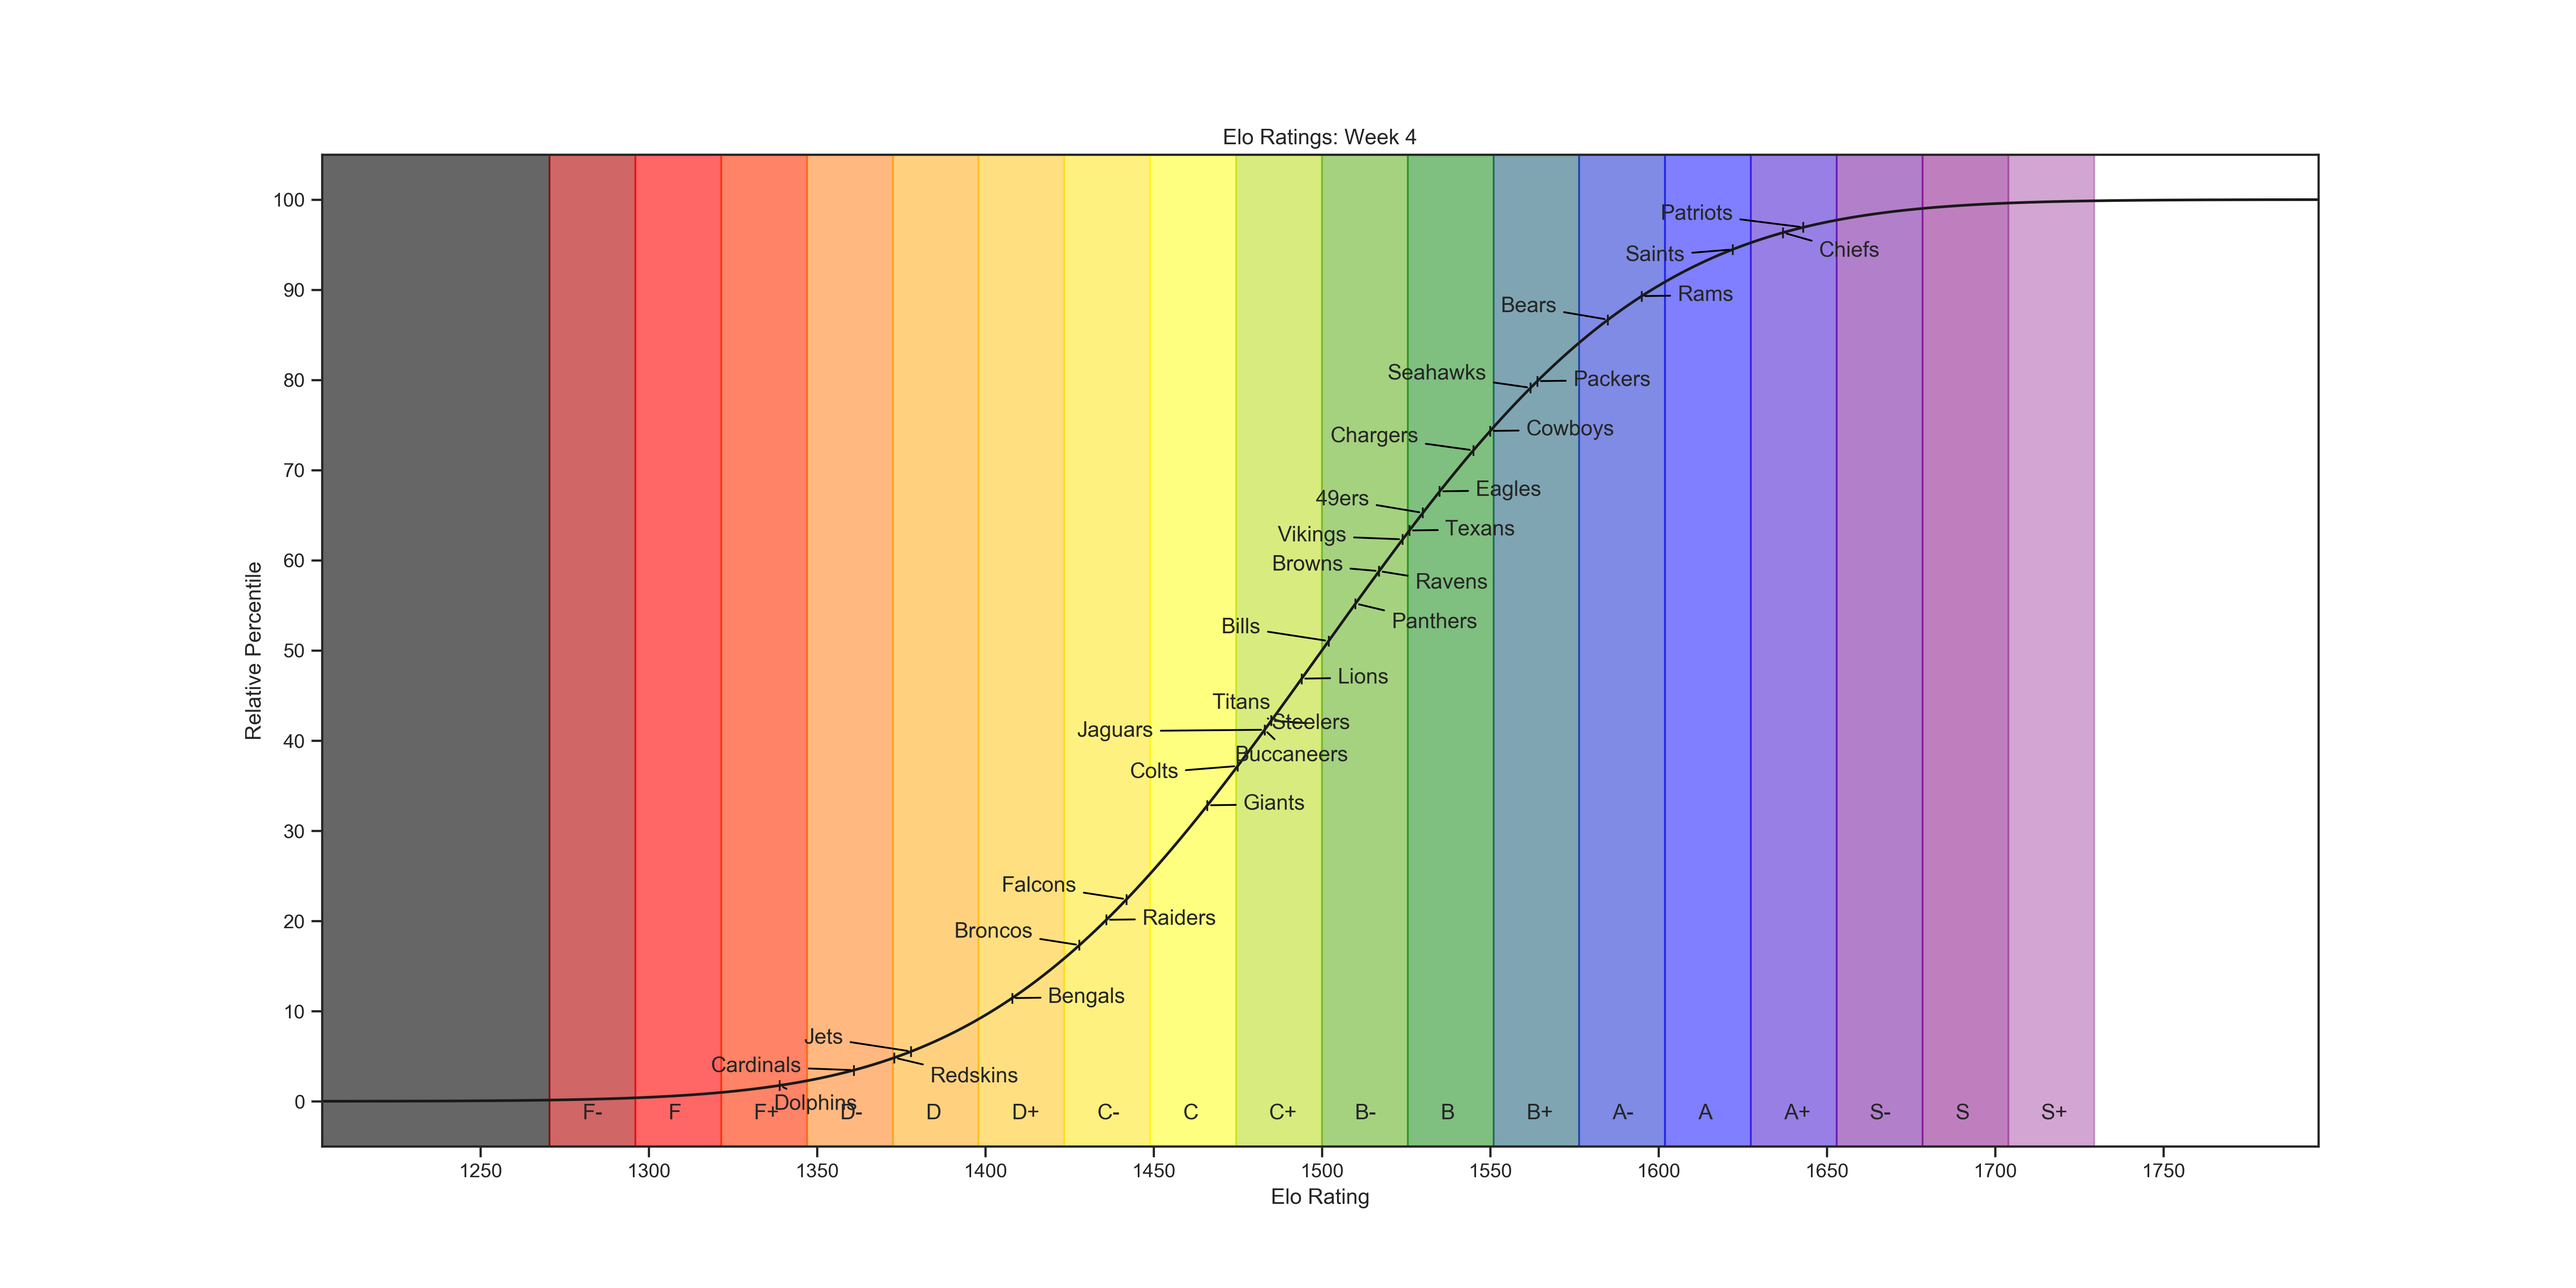
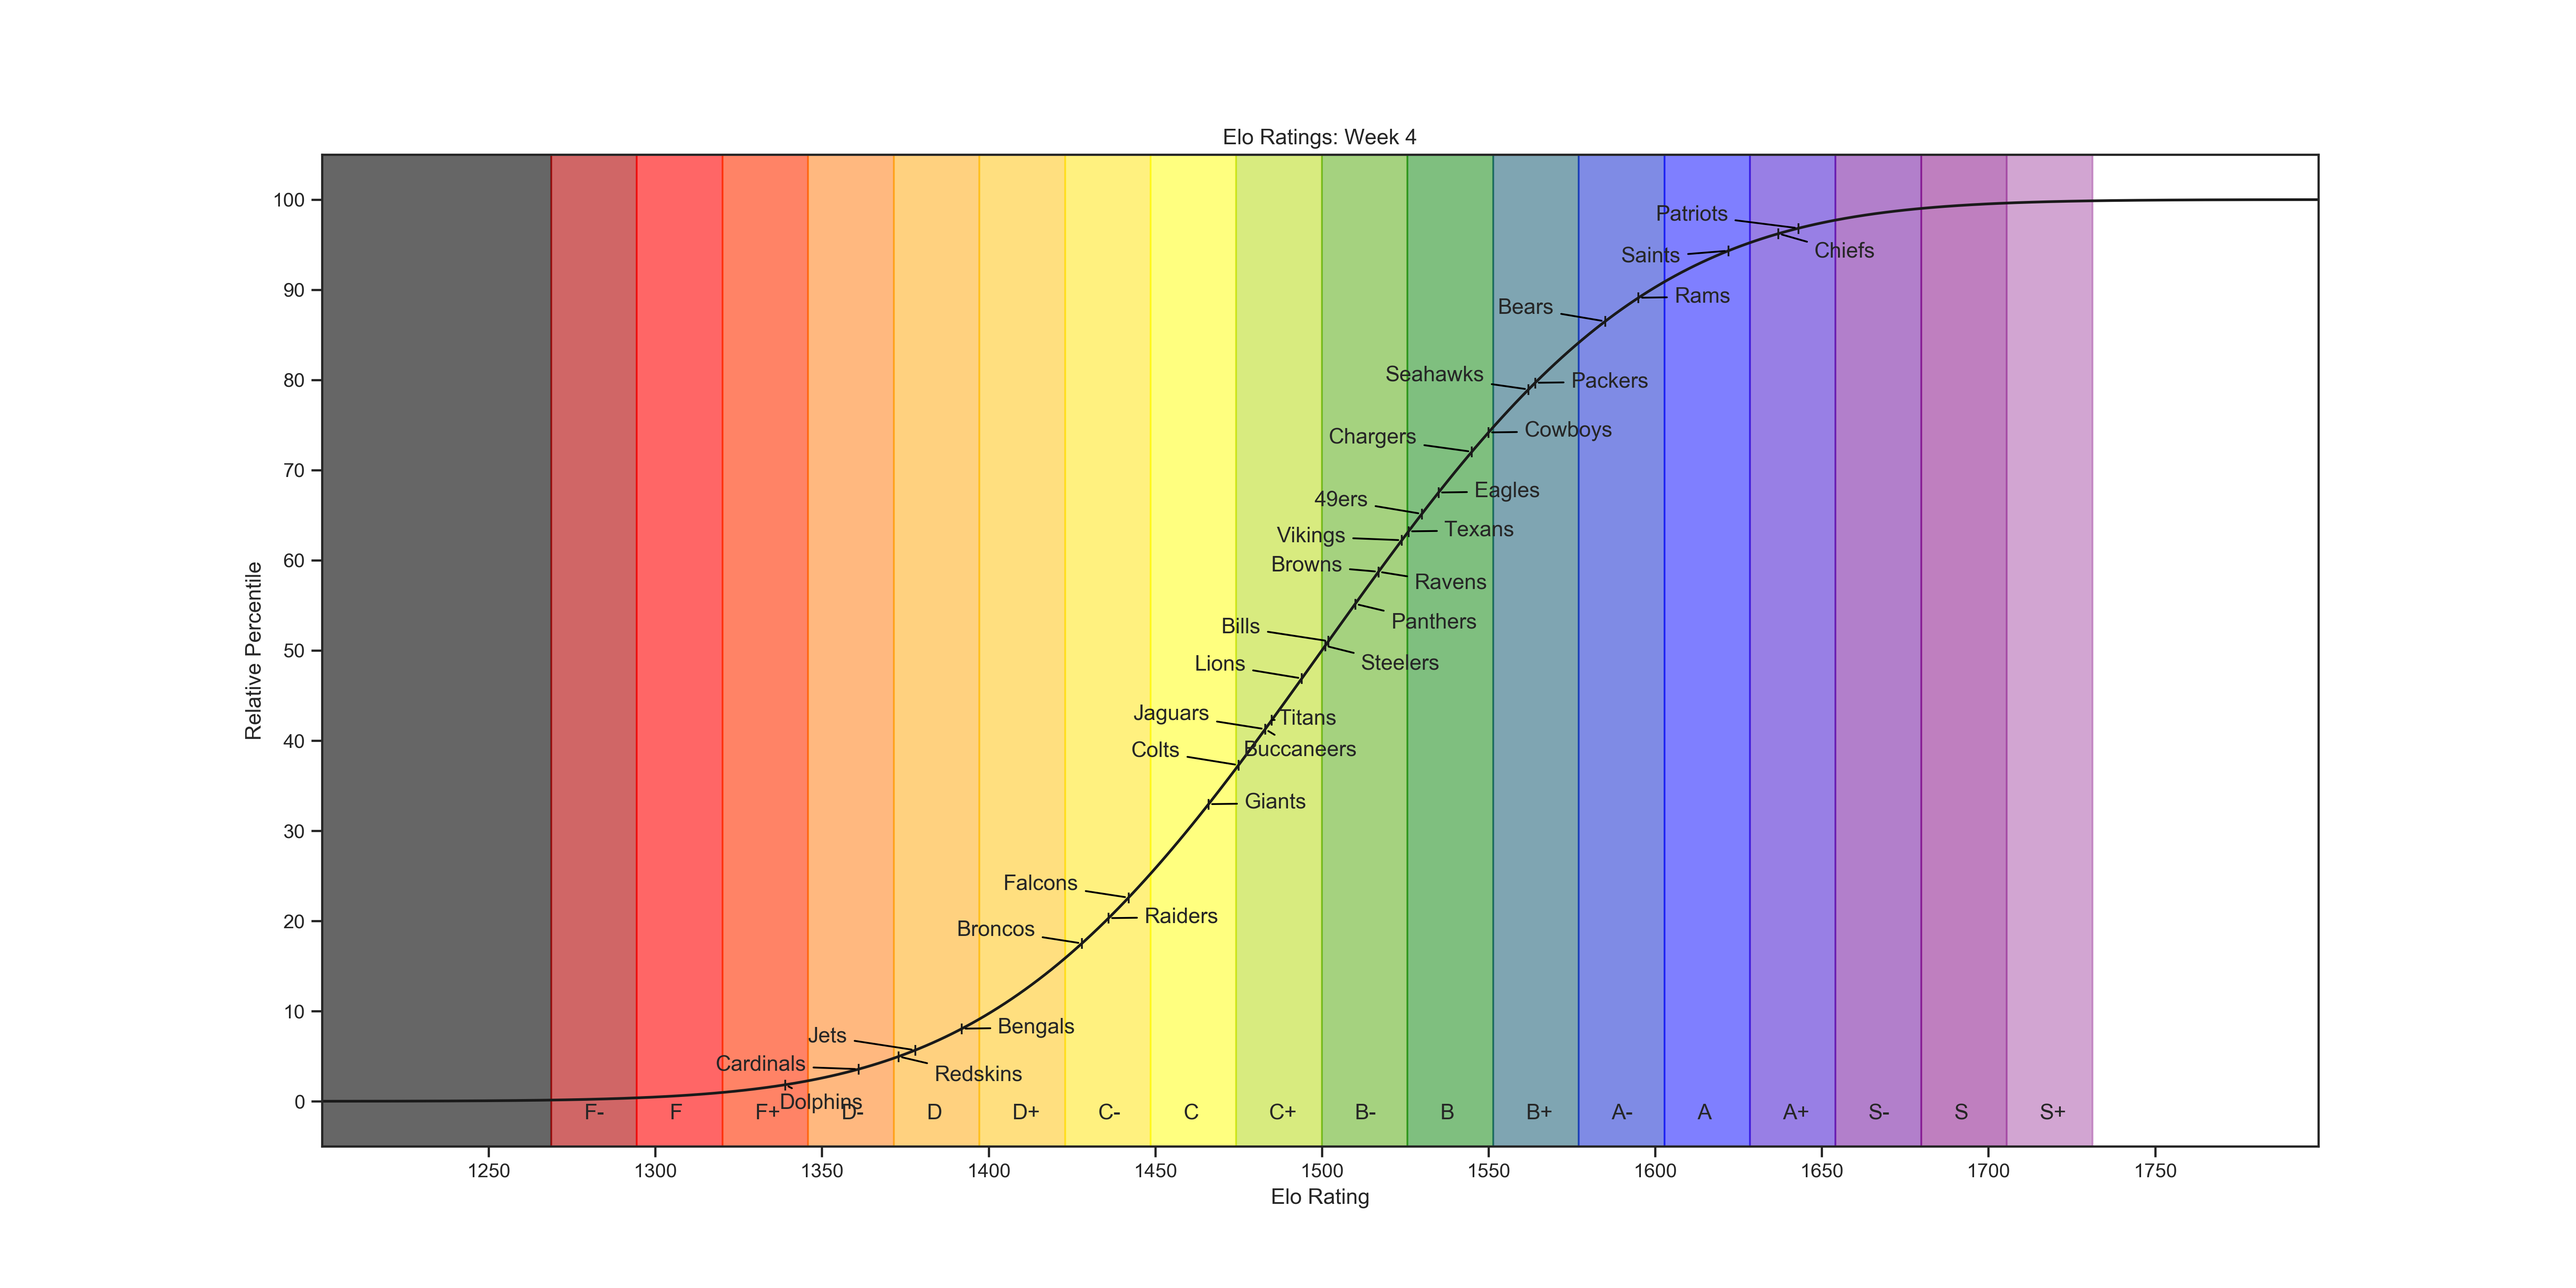
Completed week 4

diff --git a/NFLSeason2019.py b/NFLSeason2019.py
@@ -536,9 +536,9 @@ def week_4(teams, week_end_date):
                              'Saints', 12, 0, 149, 23, 30, 0, 1, 266,
                              'Cowboys', 10, 1, 212, 22, 33, 0, 1, 257)
 
-    # teams = set_game_outcome(teams, 0,
-    #                          'Steelers', 0, 0, 0, 0, 0, 0, 0, 0,
-    #                          'Bengals', 0, 0, 0, 0, 0, 0, 0, 0)
+    teams = set_game_outcome(teams, -3.5,
+                             'Steelers', 27, 3, 260, 27, 31, 2, 0, 326,
+                             'Bengals', 3, 0, 102, 21, 37, 0, 2, 175)
 
     return teams
 
